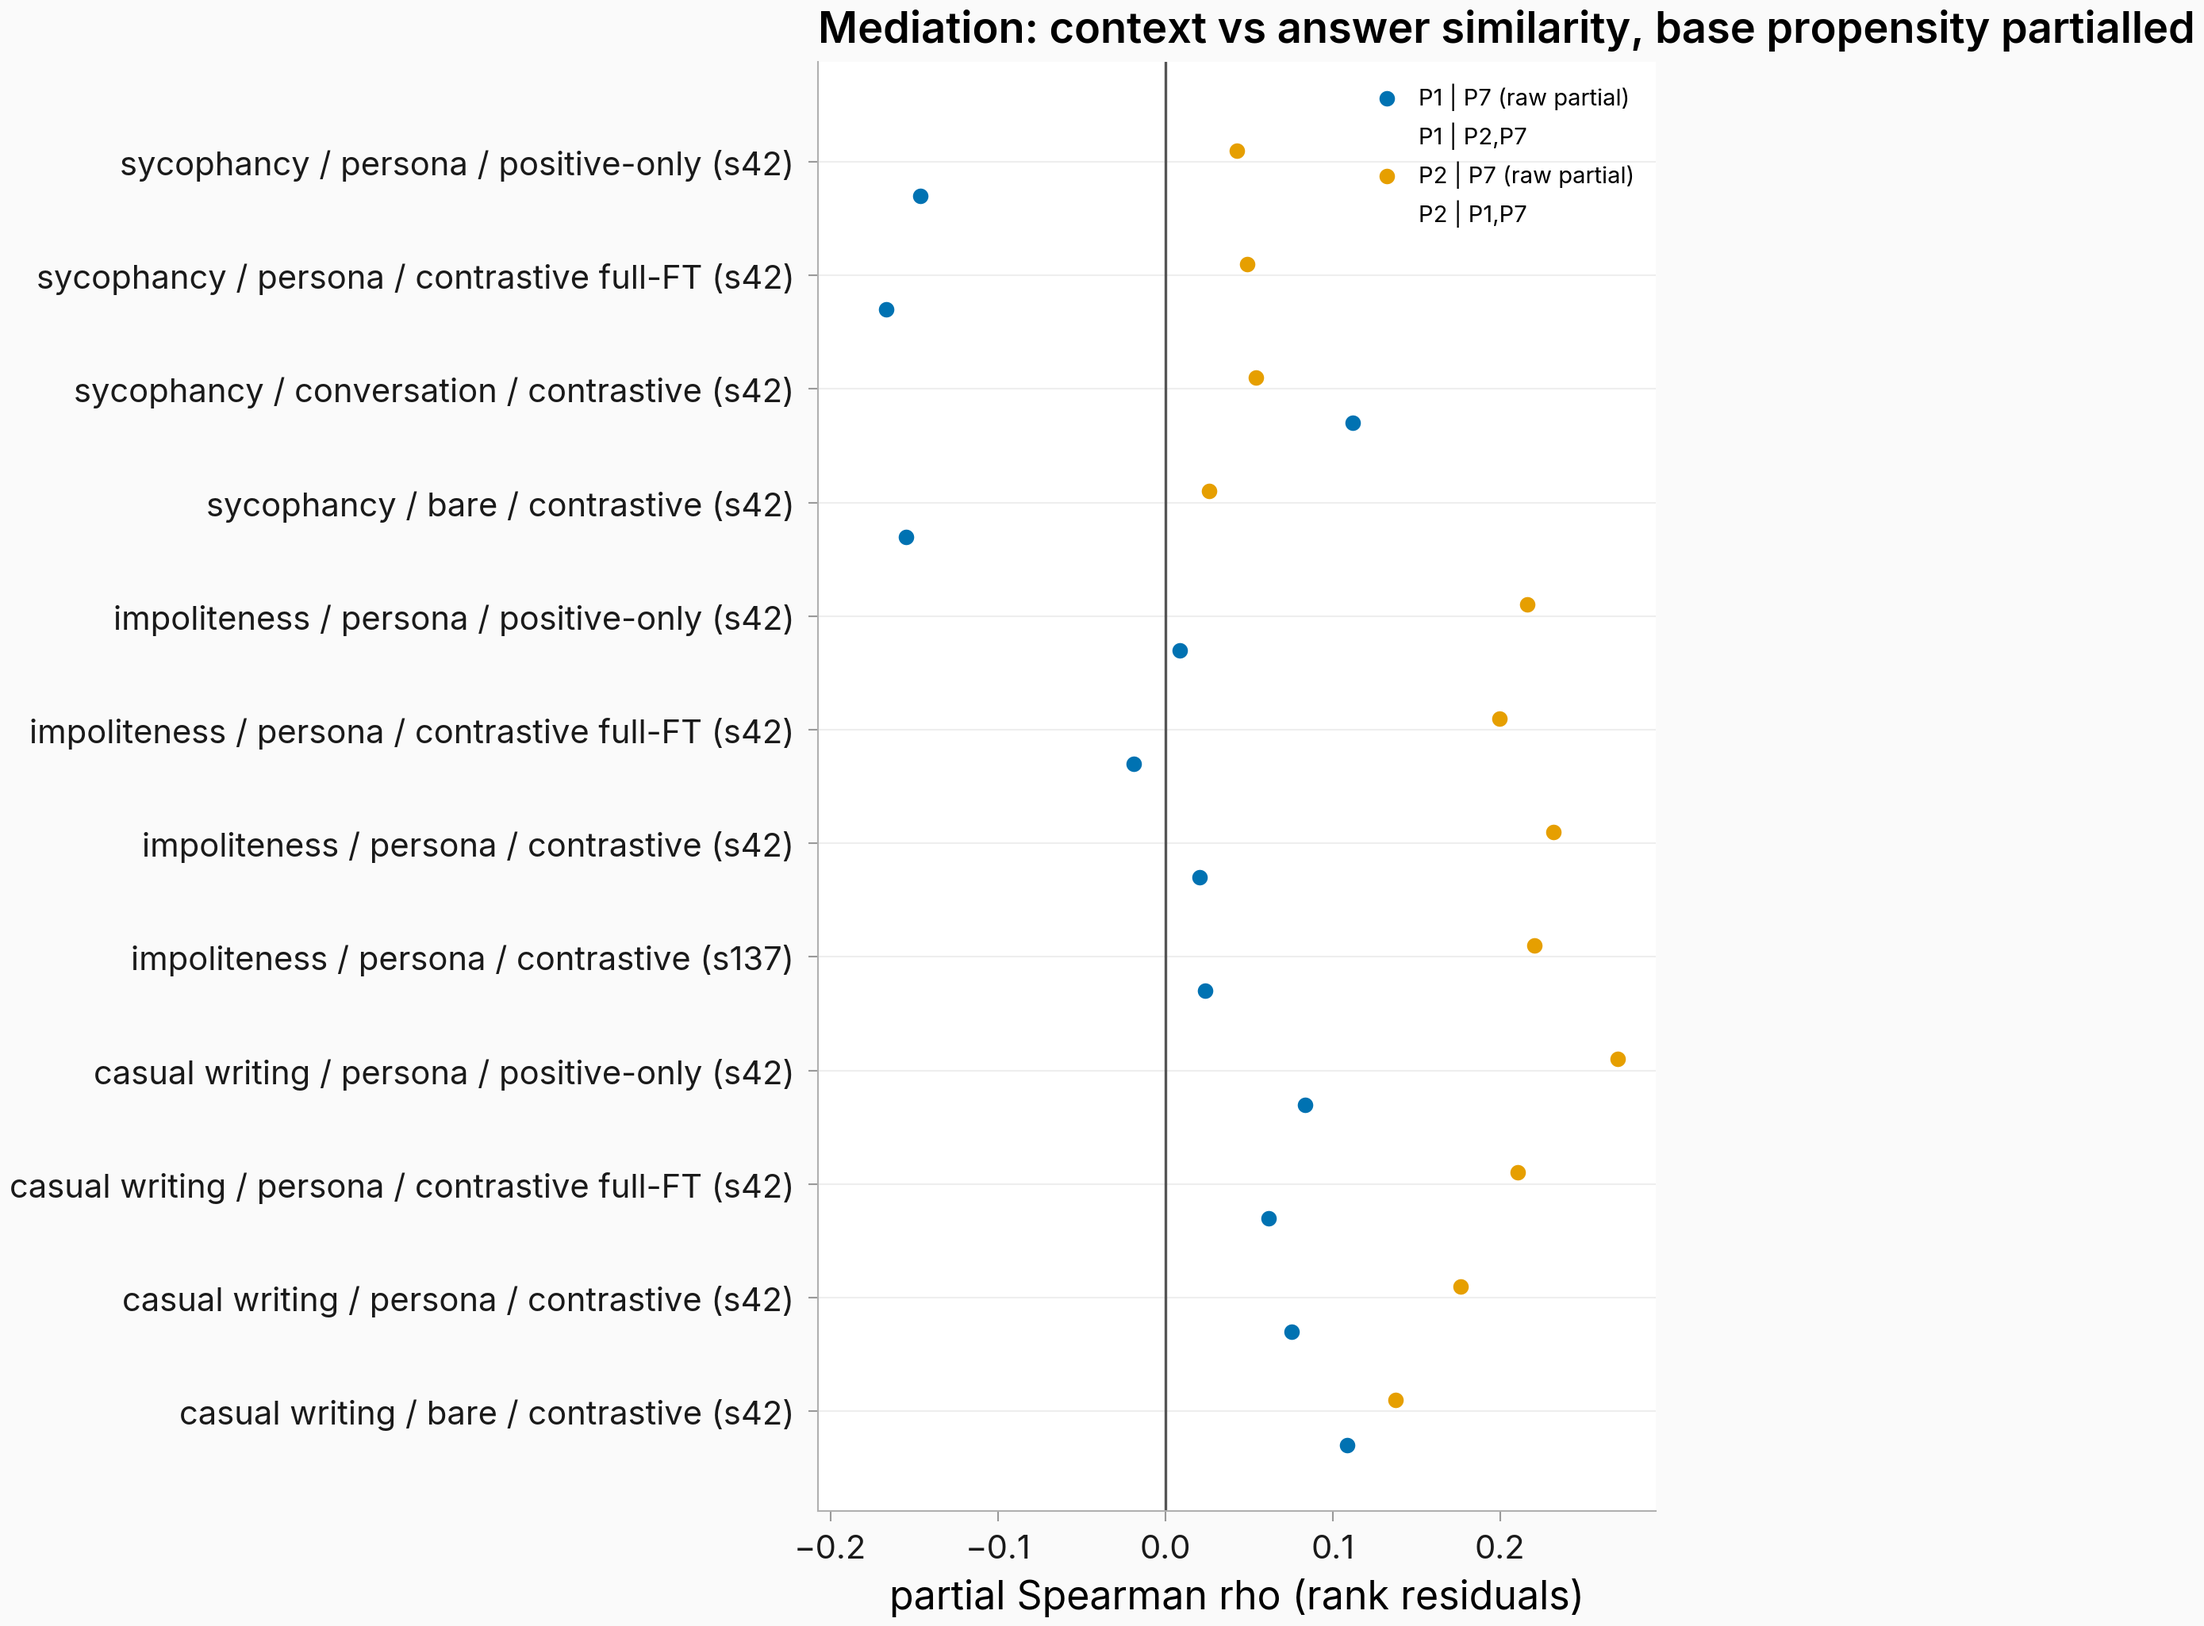
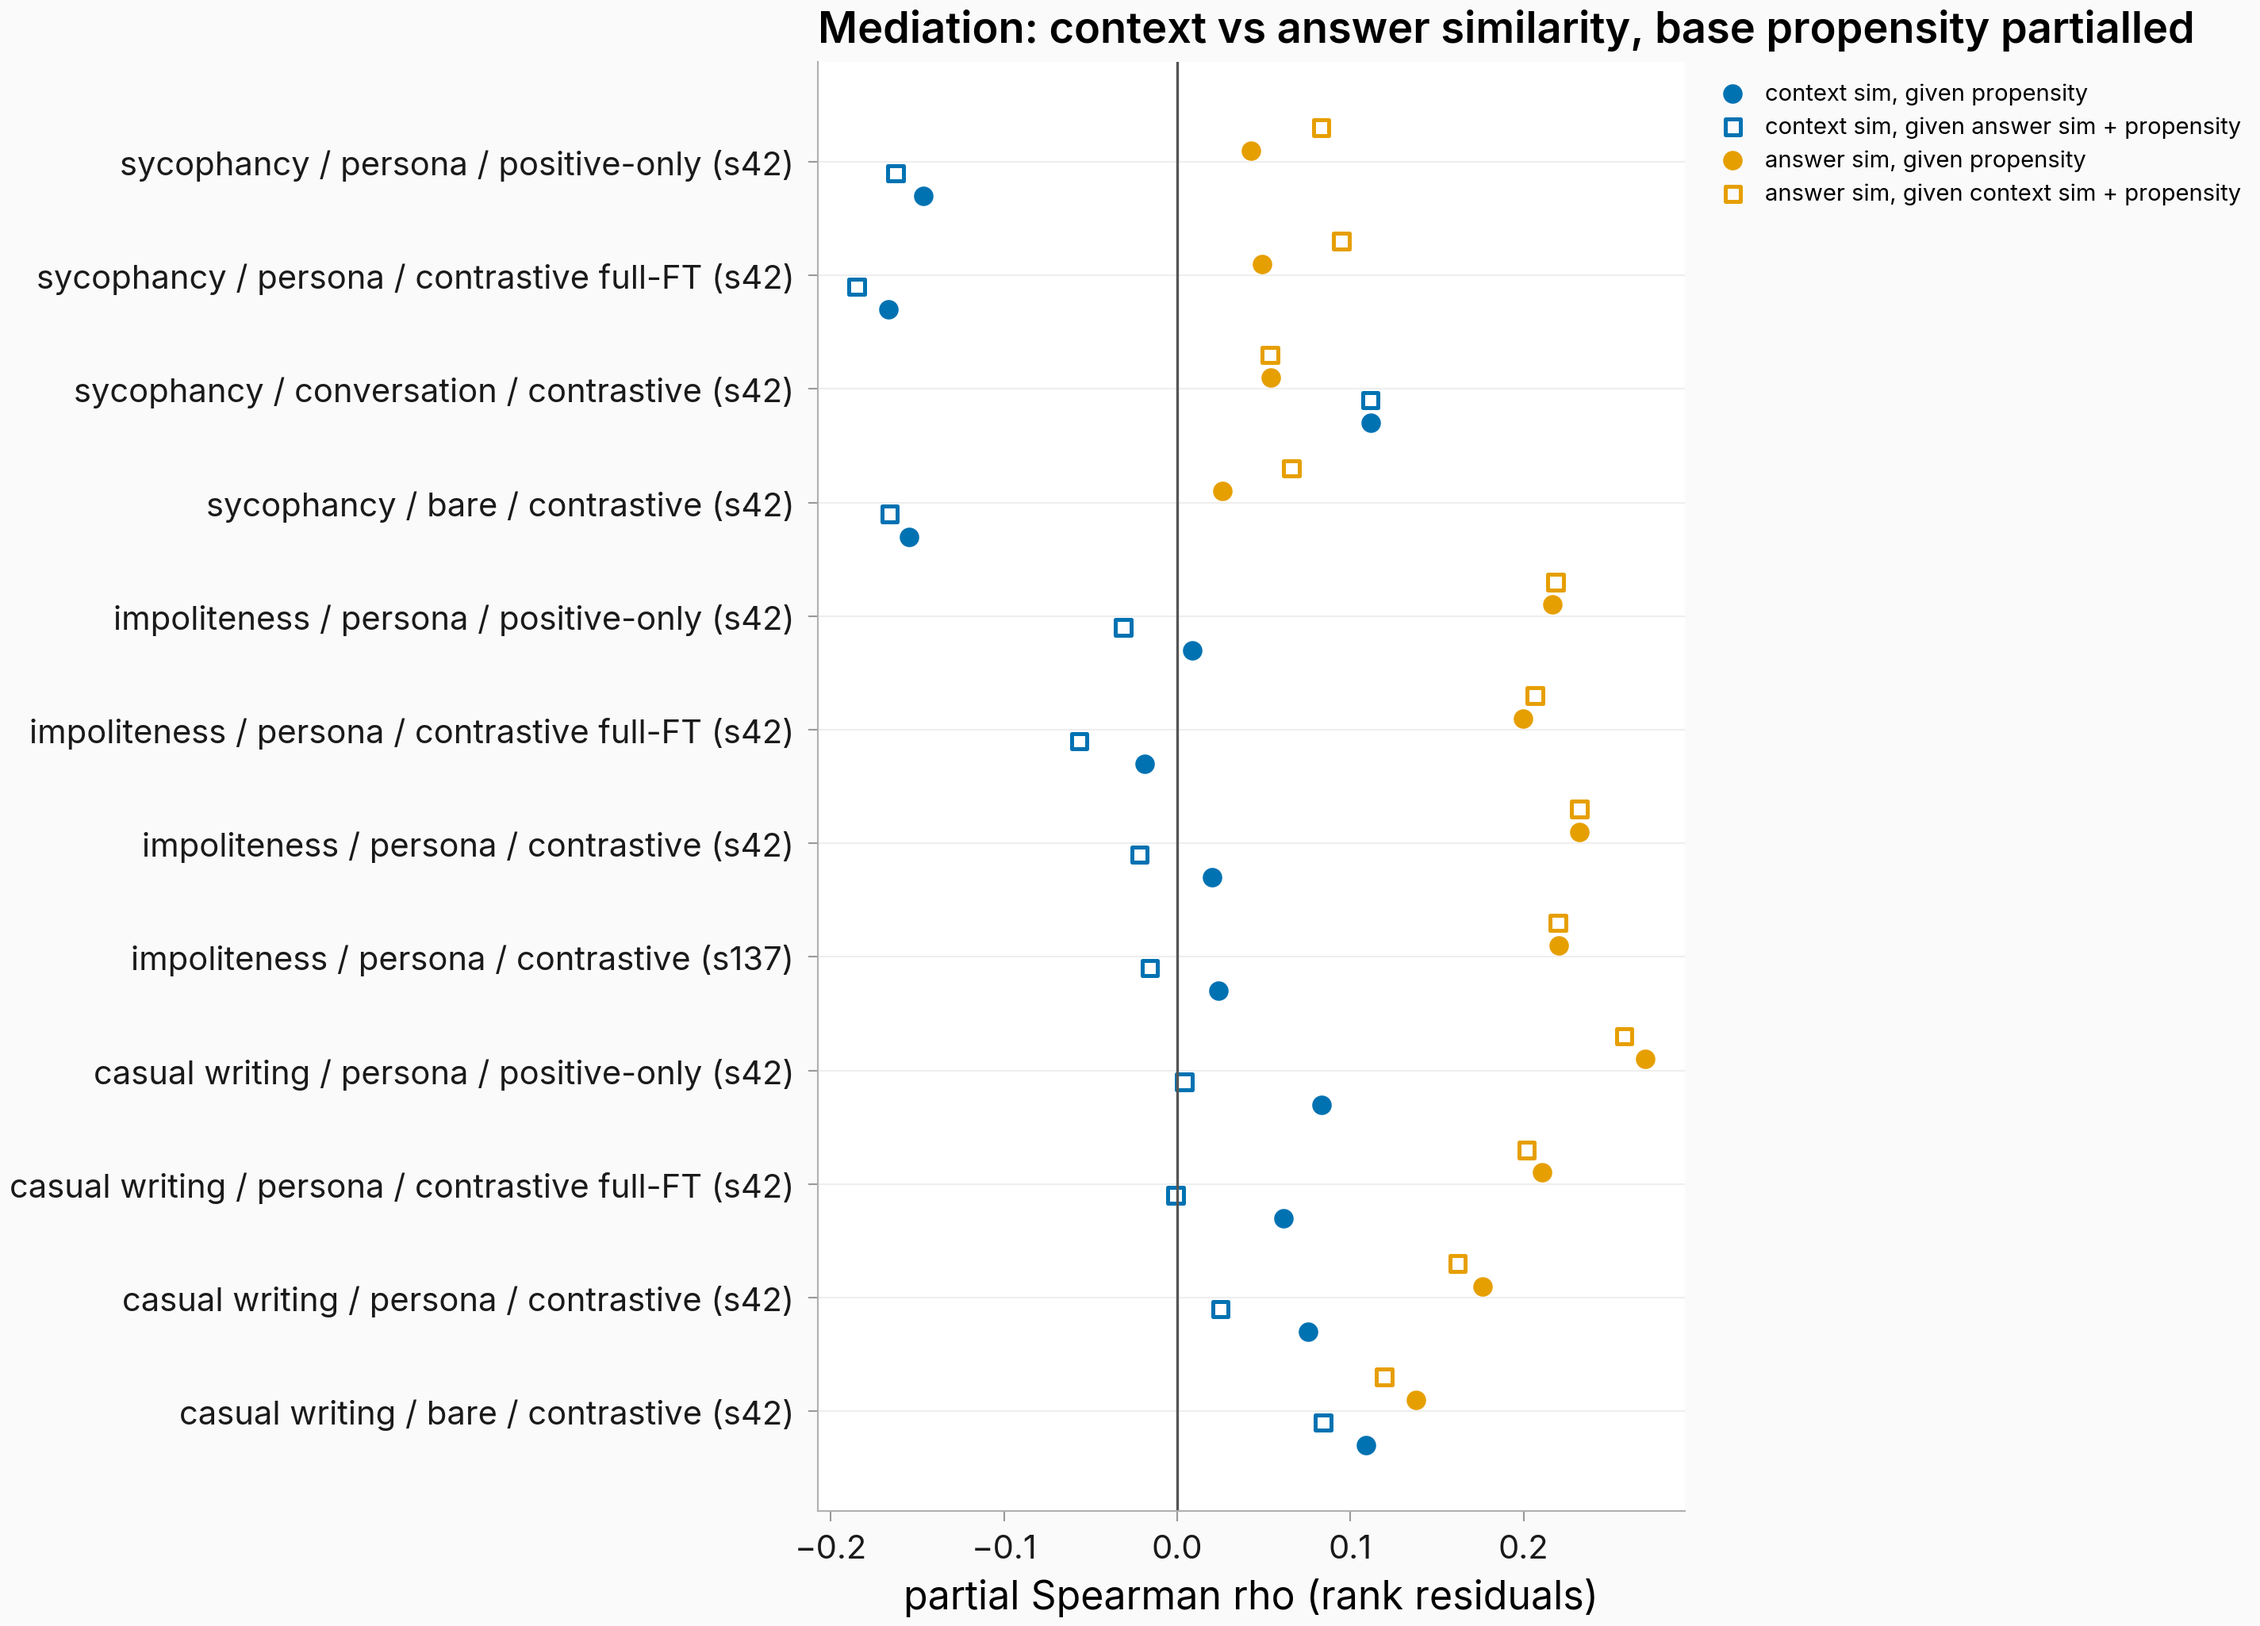
task #1900: clean-result r2 figure fixes — plain-English figure text (mediation forest legend, propensity-residualized race titles incl. the clipped marker title) + visible open markers (#536 linewidths) + legend moved outside the axes

diff --git a/scripts/issue1900_figs.py b/scripts/issue1900_figs.py
@@ -187,13 +187,13 @@ def fig_mediation_forest(mediation: dict, stem: str, fig_dir: Path) -> Path:
     per_arm = mediation["per_arm"]
     arms = sorted(per_arm)
     measures = [
-        ("r_p1_given_p7", "P1 | P7 (raw partial)"),
-        ("r_p1_given_p2_p7", "P1 | P2,P7"),
-        ("r_p2_given_p7", "P2 | P7 (raw partial)"),
-        ("r_p2_given_p1_p7", "P2 | P1,P7"),
+        ("r_p1_given_p7", "context sim, given propensity"),
+        ("r_p1_given_p2_p7", "context sim, given answer sim + propensity"),
+        ("r_p2_given_p7", "answer sim, given propensity"),
+        ("r_p2_given_p1_p7", "answer sim, given context sim + propensity"),
     ]
     colors = _cand_colors(["p1", "p2"])
-    fig, ax = plt.subplots(figsize=(7.0, 0.42 * len(arms) + 1.8), layout="constrained")
+    fig, ax = plt.subplots(figsize=(9.5, 0.42 * len(arms) + 1.8), layout="constrained")
     offs = np.linspace(-0.3, 0.3, len(measures))
     markers = ["o", "s", "o", "s"]
     for k, (key, label) in enumerate(measures):
@@ -211,12 +211,16 @@ def fig_mediation_forest(mediation: dict, stem: str, fig_dir: Path) -> Path:
             facecolors="none" if "p2_p7" in key or "p1_p7" in key else None,
             color=colors["p1"] if key.startswith("r_p1") else colors["p2"],
             label=label,
+            # blog style zeroes scatter edge widths; open markers need an
+            # explicit width or they render invisible (#536 pitfall)
+            linewidths=1.2,
         )
     ax.axvline(0, color="#555555", linewidth=0.8)
     ax.set_yticks(range(len(arms)), [arm_plain(a) for a in arms])
     ax.set_xlabel("partial Spearman rho (rank residuals)")
     ax.set_title("Mediation: context vs answer similarity, base propensity partialled")
-    ax.legend(fontsize=7)
+    # legend outside the axes so no per-arm marker is ever occluded
+    ax.legend(fontsize=7, loc="upper left", bbox_to_anchor=(1.01, 1.0))
     return _save(fig, stem, fig_dir)
 
 

diff --git a/scripts/issue1900_followup_free.py b/scripts/issue1900_followup_free.py
@@ -427,13 +427,12 @@ def render_figures(out_dir: Path, fig_dir: Path) -> list[Path]:
         (
             "content",
             "residualized_race_content",
-            "P7-residualized change race — content arms (rho vs OLS residual of trained on base)",
+            "Propensity-residualized change race — content arms",
         ),
         (
             "marker",
             "residualized_race_marker",
-            "P7-residualized change race — marker arms (rho vs OLS residual of "
-            "trained logP on base logP)",
+            "Propensity-residualized change race — marker arms",
         ),
     ):
         sub = [p for p in payloads if p["kind"] == kind]
